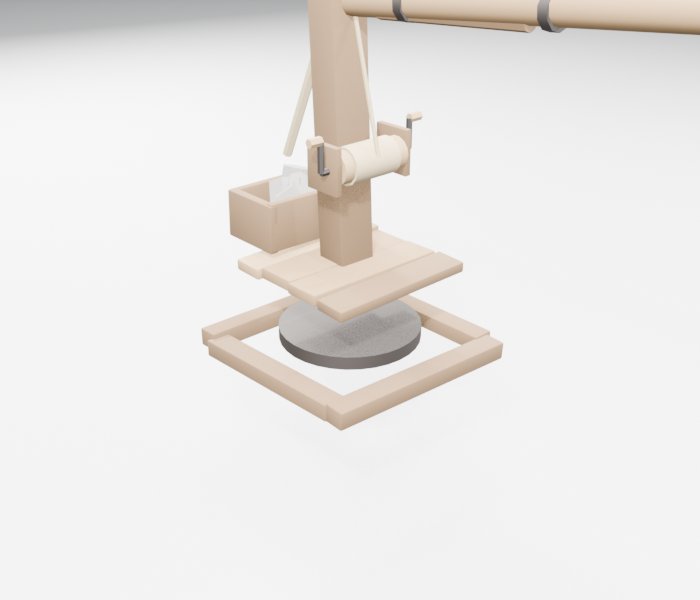
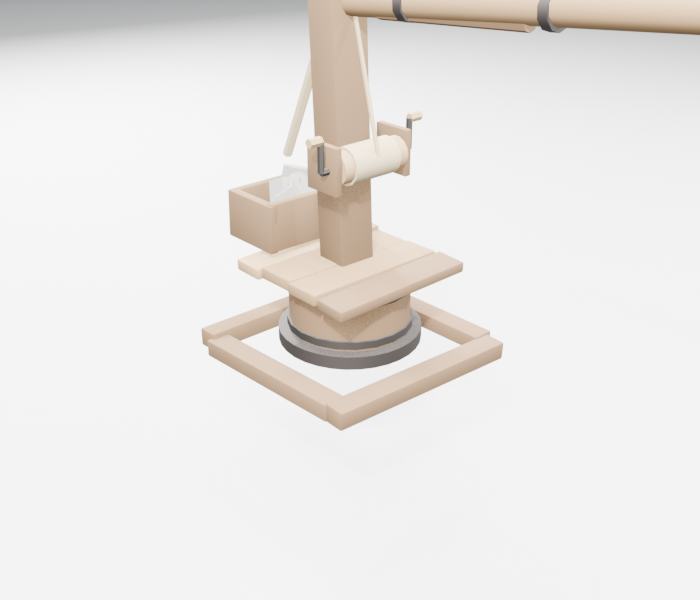
The crane turns on a timber hub on its ring, no gap under it; TIKI sits lower in the cab, seen through it

Changed region(s): [[0.39, 0.48, 0.6, 0.6]]

diff --git a/tools/blender/build_parts.py b/tools/blender/build_parts.py
@@ -1281,7 +1281,10 @@ def build_wood_crane():
         _rough_beam(f"SillX{x}", (0.1, sy - 0.2, 0.08), (x, 0, -hz + 0.04), rng, mat="WoodDark")
     bolts("BaseBolt", (0, 0, -hz), (0, 0, -1), sx * 0.7, sy * 0.7, grp="Part")
     cyl("Ring", 0.32, 0.06, (0, 0, -hz + 0.11), segs=32, mat="Iron", grp="Part")
-    # what slews
+    # what slews: a timber hub turning on the ring, up to the table, bound with iron
+    cyl("Hub", 0.27, 0.25, (0, 0, -hz + 0.265), segs=20, mat="WoodDark", grp="Top")
+    for z in (-hz + 0.17, -hz + 0.36):
+        cyl(f"HubBand{z}", 0.28, 0.035, (0, 0, z), segs=20, mat="Iron", grp="Top")
     for k in range(4):
         _rough_beam(f"Table{k}", (0.7, 0.17, 0.05), (0, -0.27 + k * 0.18, hz - 0.08), rng, grp="Top")
     _rough_beam("Post", (0.16, 0.16, 1.2), (0, -0.05, hz + 0.52), rng, mat="WoodDark", grp="Top")
